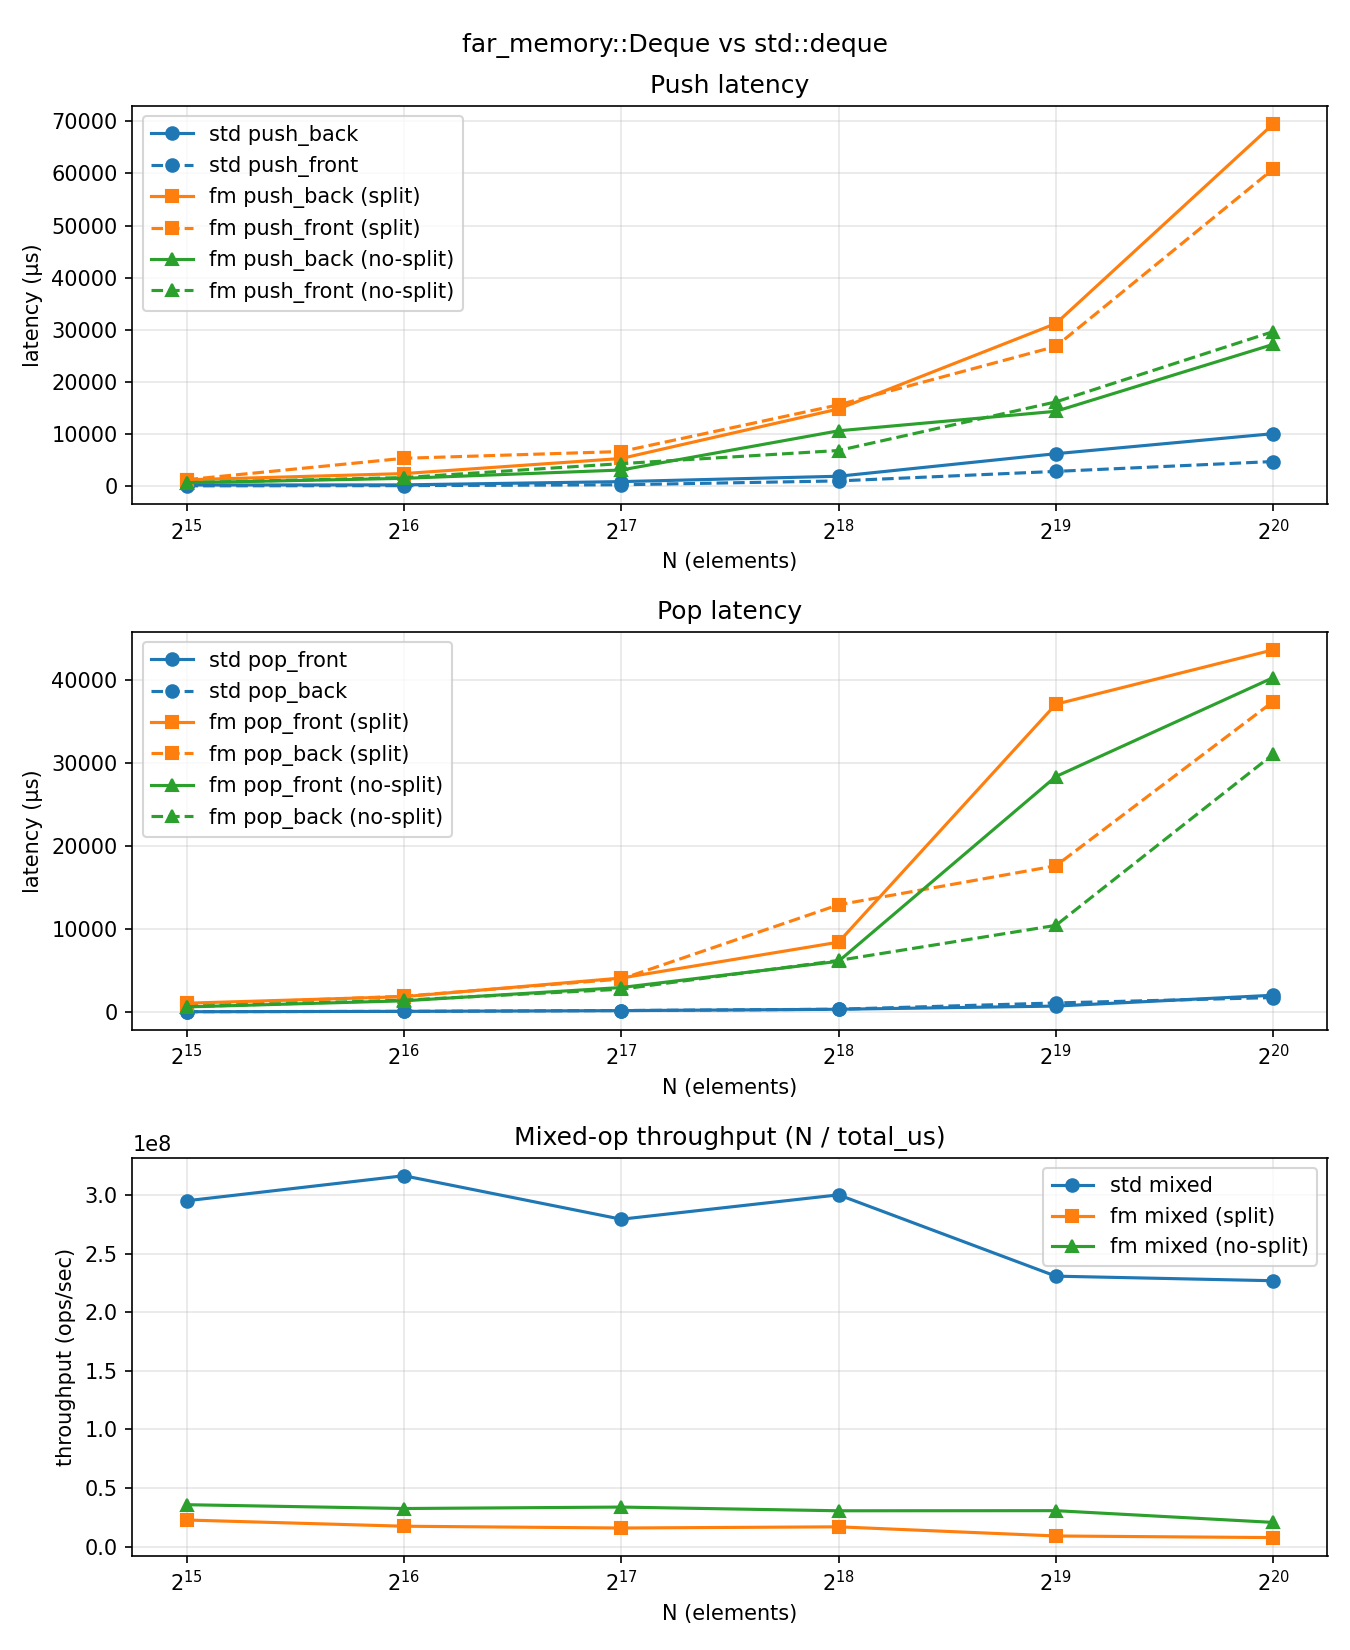
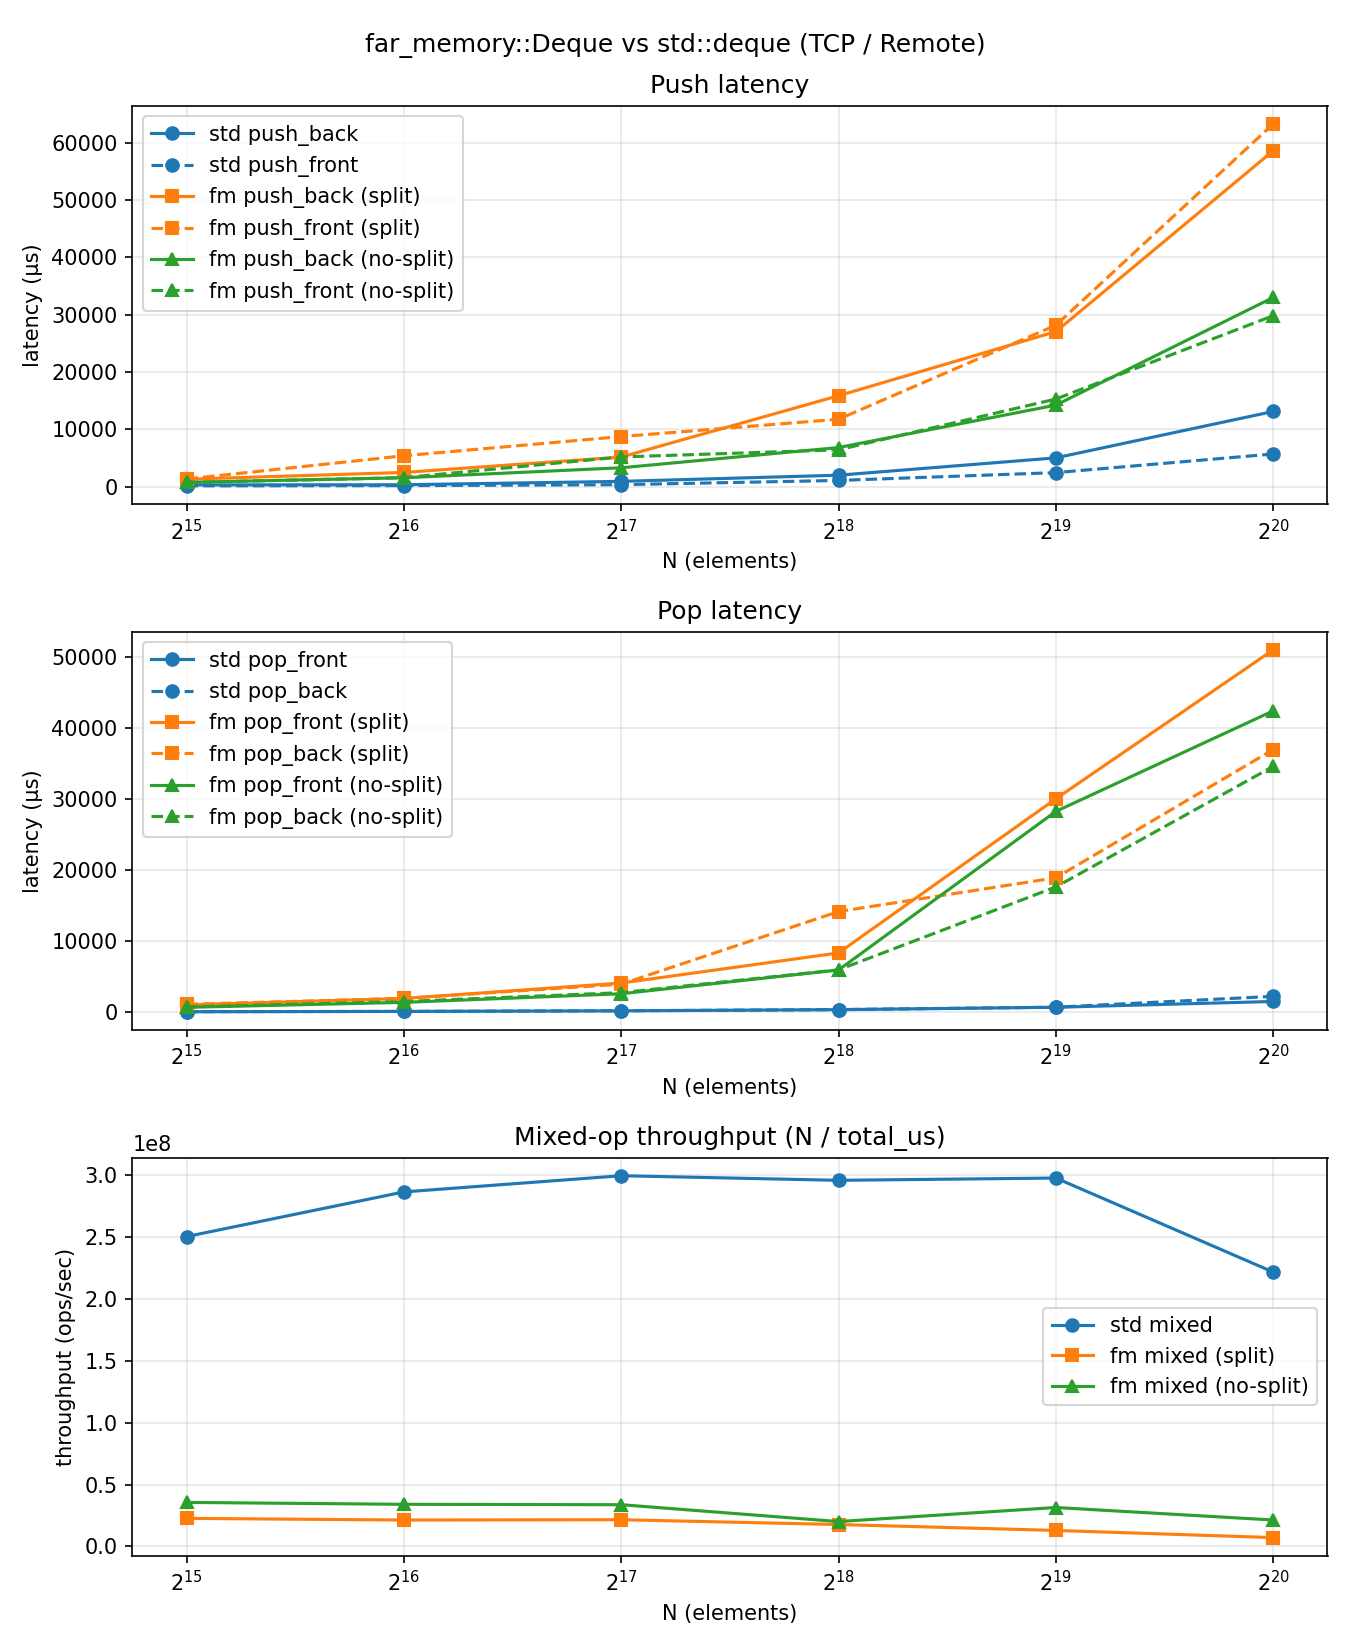
makedeque

diff --git a/aifm/scripts/plot_deque_benchmark.py b/aifm/scripts/plot_deque_benchmark.py
@@ -53,9 +53,11 @@ def main():
         )
         return 1
 
-    # Auto-name output based on whether this is a TCP run.
-    if args.output == "deque_performance.png" and "tcp" in path.name:
+    # Auto-name output and title based on whether this is a TCP run.
+    is_tcp = "tcp" in path.name
+    if args.output == "deque_performance.png" and is_tcp:
         args.output = "tcp_deque_performance.png"
+    plot_title = "far_memory::Deque vs std::deque (TCP / Remote)" if is_tcp else "far_memory::Deque vs std::deque (Local)"
 
     data = json.loads(path.read_text())
     runs = data.get("runs", [])
@@ -97,7 +99,8 @@ def main():
                    fm_fast_pf if has_fast else None,
                    fm_fast_dpf if has_fast else None,
                    fm_fast_dpb if has_fast else None,
-                   fm_fast_mx if has_fast else None)
+                   fm_fast_mx if has_fast else None,
+                   title=plot_title)
         print(
             "note: matplotlib not installed; wrote SVG. "
             "Install: python3 -m pip install --user --only-binary :all: "
@@ -119,7 +122,7 @@ def main():
         ax.grid(True, alpha=0.3, which="both")
 
     fig, axes = plt.subplots(3, 1, figsize=(9, 11))
-    fig.suptitle("far_memory::Deque vs std::deque")
+    fig.suptitle(plot_title)
 
     # Panel 0: push latency
     ax = axes[0]
@@ -213,7 +216,8 @@ def _write_svg(path, ns,
                std_pb, std_pf, std_dpf, std_dpb, std_mx,
                fm_pb, fm_pf, fm_dpf, fm_dpb, fm_mx,
                fm_fast_pb=None, fm_fast_pf=None,
-               fm_fast_dpf=None, fm_fast_dpb=None, fm_fast_mx=None):
+               fm_fast_dpf=None, fm_fast_dpb=None, fm_fast_mx=None,
+               title="far_memory::Deque vs std::deque"):
     t_std      = _tput(ns, std_mx)
     t_fm       = _tput(ns, fm_mx)
     t_fm_fast  = _tput(ns, fm_fast_mx) if fm_fast_mx else None
@@ -261,7 +265,7 @@ def _write_svg(path, ns,
         f'<svg xmlns="http://www.w3.org/2000/svg" width="{w}" height="{h}" viewBox="0 0 {w} {h}">',
         f'<rect fill="white" x="0" y="0" width="{w}" height="{h}"/>',
         f'<text x="{w//2}" y="28" text-anchor="middle" font-size="16" font-family="sans-serif">'
-        'far_memory::Deque vs std::deque</text>',
+        f'{_esc(title)}</text>',
     ]
 
     for idx, (title, series) in enumerate(panels):